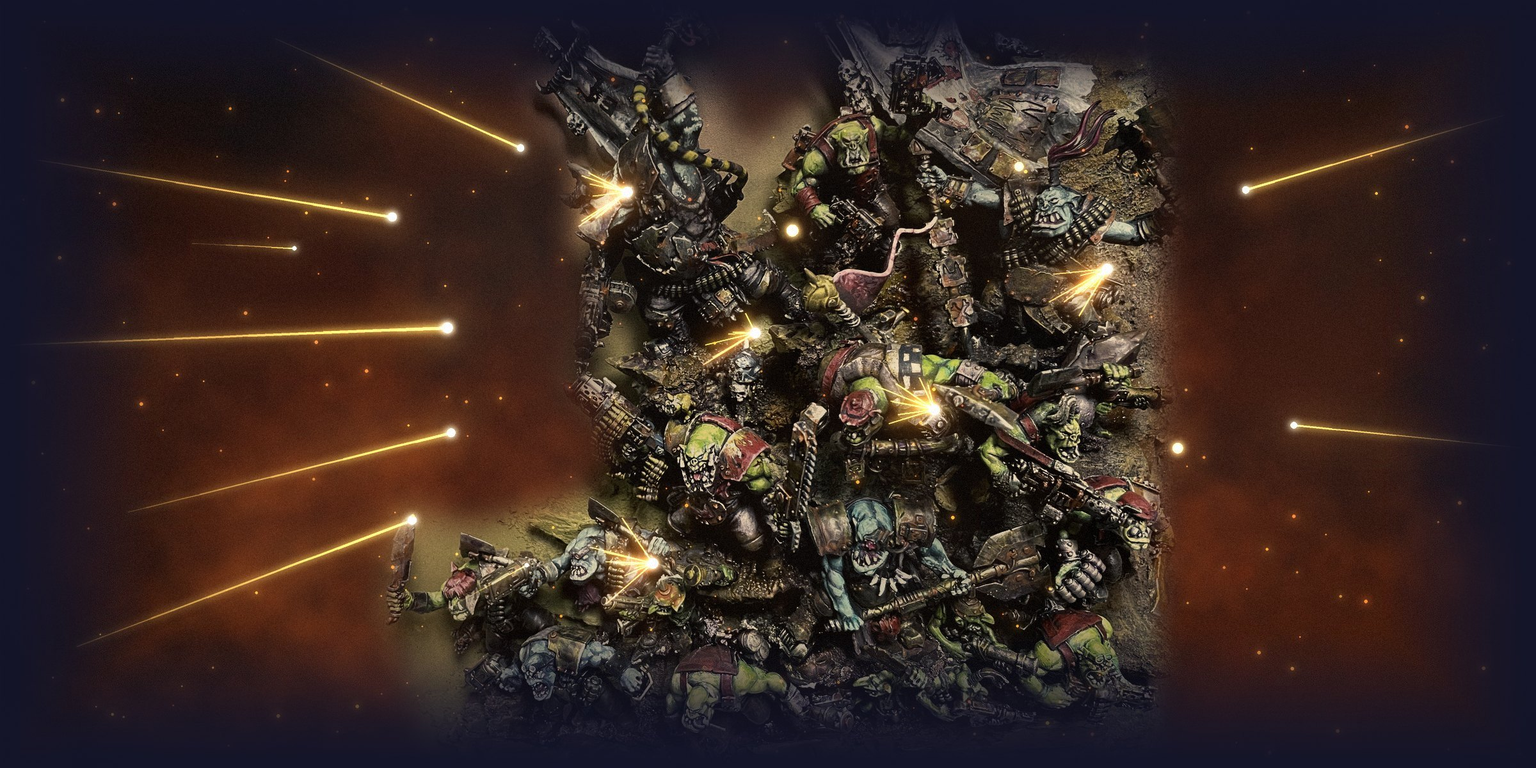
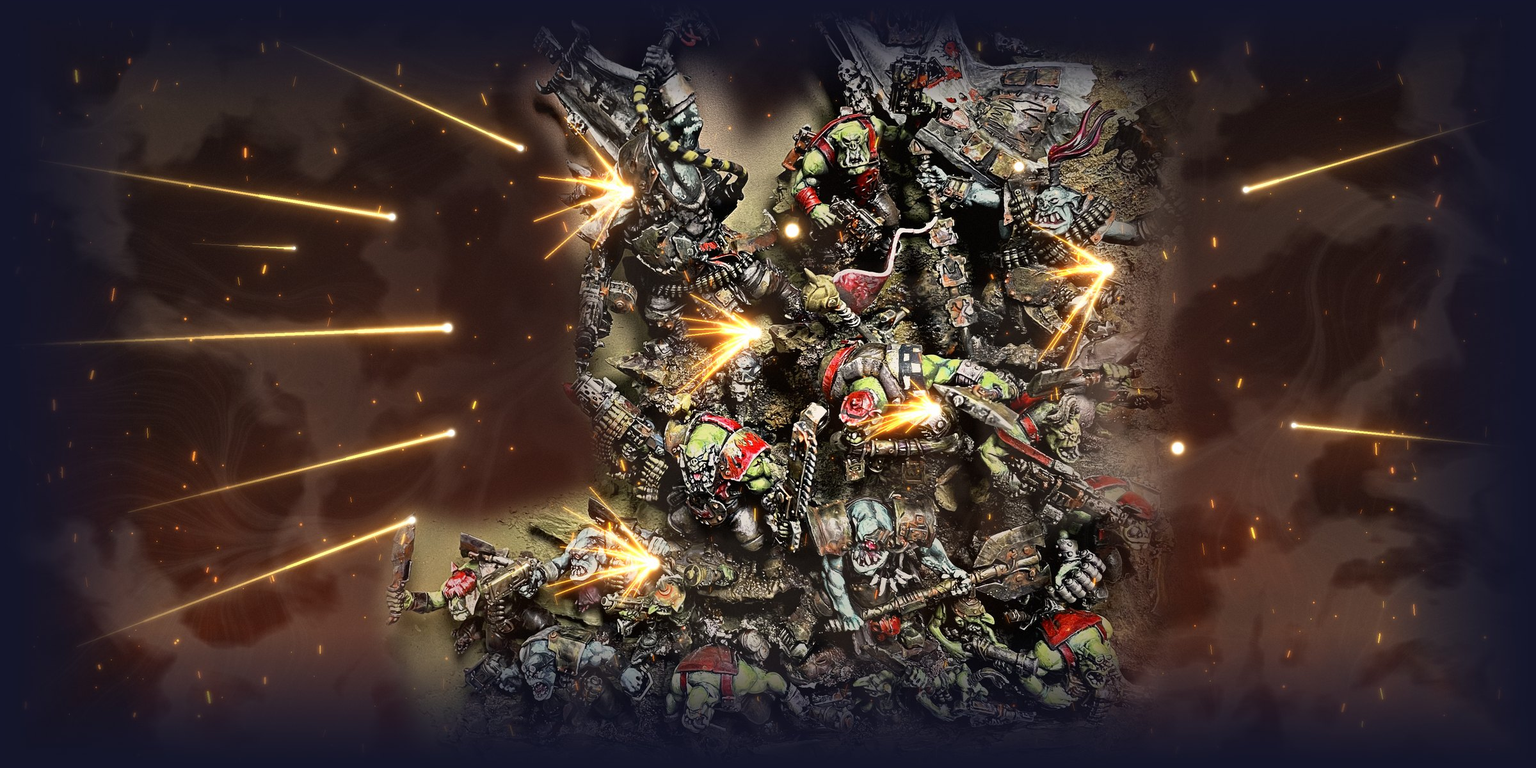
Hero: 4K pass with wispy smoke and red-preserving grade; wire Formspree form
Claude-Session: https://claude.ai/code/session_01VGTpXUwRjd5zMGnTmf5iUC

diff --git a/index.html b/index.html
@@ -32,7 +32,7 @@
 </div>
 
 <header class="hero" id="top">
-  <img src="img/hero-ork.jpg" alt="A horde of painted orks charging through smoke and bolter fire" width="2400" height="1200">
+  <img src="img/hero-ork.jpg" srcset="img/hero-ork.jpg 2400w, img/hero-ork-3840.jpg 3840w" sizes="100vw" alt="A horde of painted orks charging through smoke and bolter fire" width="2400" height="1200">
   <div class="wrap hero-cap">
     <h1>Whole worlds, <em>built by hand</em> at miniature scale.</h1>
     <div>
@@ -191,7 +191,7 @@
     <p style="color:var(--dim)">Commissions, classes or coaching. Commissions currently run 2–3 months from deposit, so include a timeline if you have one.</p>
     <div class="contact-alt">Prefer email? <code>atxminis@gmail.com</code></div>
   </div>
-  <form id="inq" action="https://formspree.io/f/FORM_ID" method="POST">
+  <form id="inq" action="https://formspree.io/f/xbgopgjj" method="POST">
     <div class="f"><label for="n">Name</label><input id="n" name="name" autocomplete="name" required></div>
     <div class="f"><label for="e">Email</label><input id="e" name="email" type="email" autocomplete="email" required></div>
     <div class="f"><label for="t">I'm asking about</label><select id="t" name="subject"><option>A commission</option><option>A class or workshop</option><option>Virtual coaching</option><option>Something else</option></select></div>
